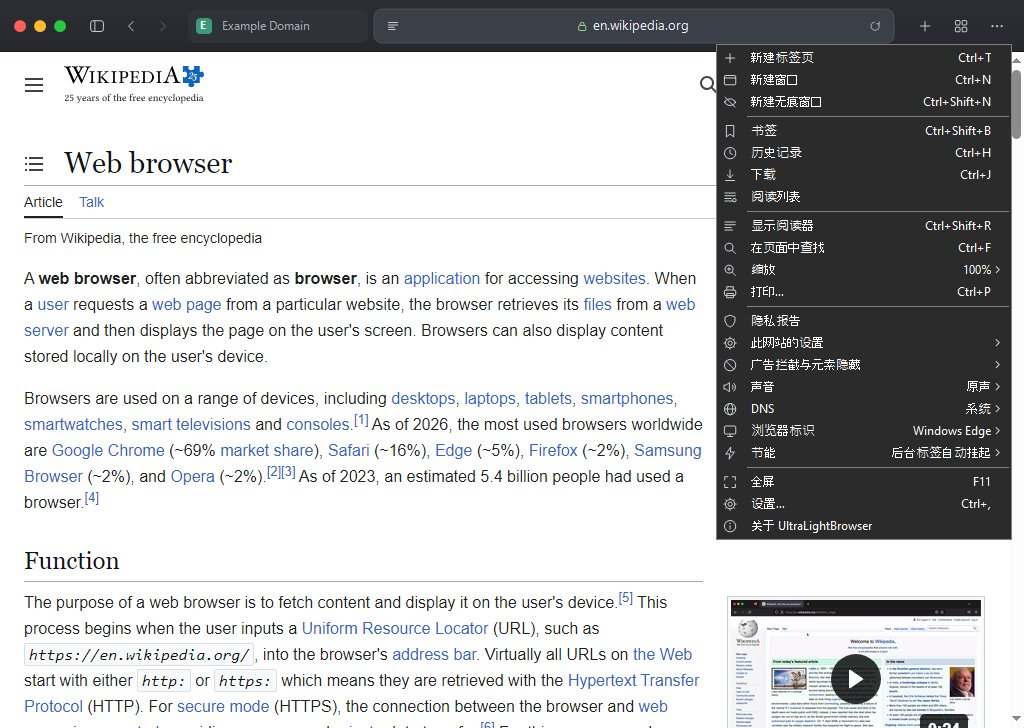
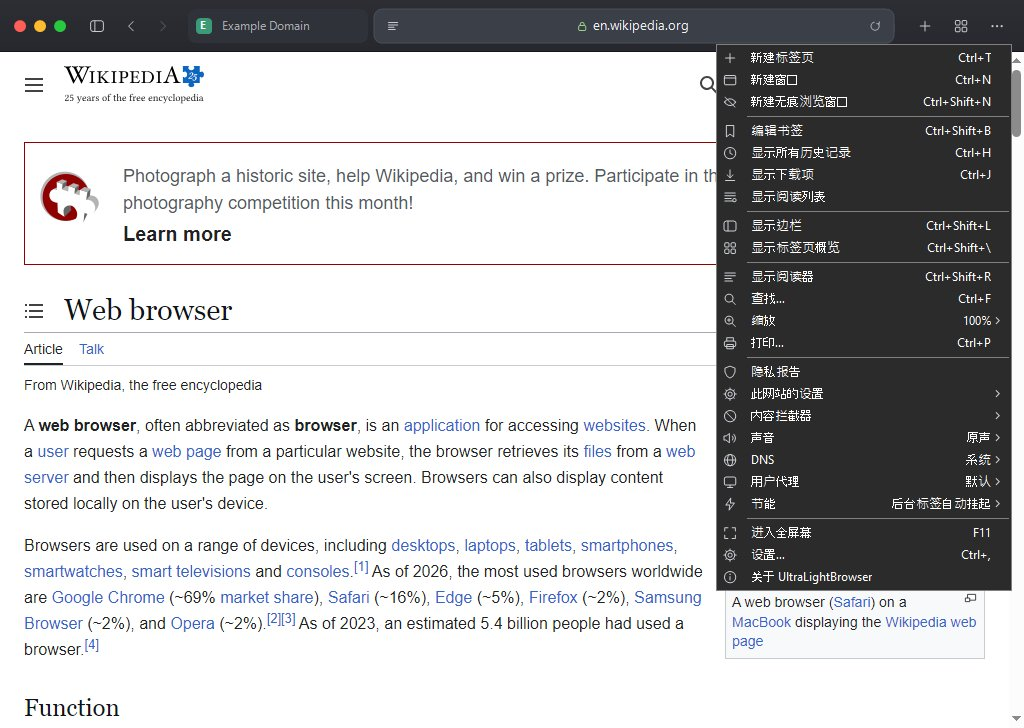
ui: Safari wording for menus, settings and built-in pages (v2.0.2)
Menus, toasts, settings and built-in pages now use the terms of macOS
Safari (Simplified Chinese): 边栏, 标签页组, 标签页概览, 显示所有历史记录,
显示下载项, 查找…, 进入全屏幕, 内容拦截器, 隐藏干扰项目, 用户代理,
可用时使用阅读器, 拦截并通知, 常用网站, 自定起始页, 将链接添加到阅读列表 …
Zoom and permission submenus follow Safari's order; the find banner shows
"N 个匹配项".

diff --git a/ui/settings.js b/ui/settings.js
@@ -32,41 +32,42 @@ async function load() {
   s = await call("getSettings");
   document.getElementById("main").replaceChildren(
     section("general", "通用",
-      row("启动时打开", select("startupPage", [["start", "起始页"], ["home", "主页"], ["restore", "上次打开的标签页"]])),
-      row("新标签页打开", select("newTabPage", [["start", "起始页"], ["blank", "空白页"], ["home", "主页"]])),
-      row("主页", text("homeUrl", "https://")),
-      row("搜索引擎", select("searchEngine", [["google", "Google"], ["bing", "Bing"], ["duckduckgo", "DuckDuckGo"], ["startpage", "Startpage"], ["baidu", "百度"]]))),
+      row("UltraLightBrowser 打开时：", select("startupPage", [["start", "一个新窗口"], ["home", "主页"], ["restore", "上次会话的所有窗口"]])),
+      row("新标签页打开方式：", select("newTabPage", [["start", "起始页"], ["home", "主页"], ["blank", "空白页"]])),
+      row("主页：", text("homeUrl", "https://"))),
     section("tabs", "标签页",
-      row("后台标签页自动挂起", select("tabSuspendMinutes", [[0, "从不"], [5, "5 分钟后"], [10, "10 分钟后"], [30, "30 分钟后"], [60, "1 小时后"]]),
+      row("后台标签页自动挂起：", select("tabSuspendMinutes", [[0, "永不"], [5, "5 分钟后"], [10, "10 分钟后"], [30, "30 分钟后"], [60, "1 小时后"]]),
         "未播放声音的后台标签页会暂停运行以节省内存和电量，切换回来时自动恢复。")),
+    section("search", "搜索",
+      row("搜索引擎：", select("searchEngine", [["google", "Google"], ["bing", "Bing"], ["duckduckgo", "DuckDuckGo"], ["startpage", "Startpage"], ["baidu", "百度"]]))),
     section("start", "起始页",
       row("个人收藏", sw("startShowFavorites")),
-      row("常去网站", sw("startShowFrequent")),
+      row("常用网站", sw("startShowFrequent")),
       row("隐私报告", sw("startShowPrivacy")),
       row("阅读列表", sw("startShowReading")),
-      row("背景", select("startBackground", [["aurora", "极光"], ["ocean", "海洋"], ["sunset", "日落"], ["plain", "纯色"]]))),
+      row("背景图像：", select("startBackground", [["aurora", "极光"], ["ocean", "海洋"], ["sunset", "日落"], ["plain", "无"]]))),
     section("privacy", "隐私",
-      row("记录浏览历史", sw("saveHistory"), "无痕窗口从不记录历史。"),
-      row("退出时清除历史记录", sw("clearHistoryOnExit")),
-      row("广告与跟踪拦截", sw("enableAdBlock"), "可在“此网站的设置”中对单个网站关闭。"),
-      action("历史记录", "清除所有历史记录…", async () => {
-        if (confirm("清除所有历史记录？")) { await call("clearHistory", { range: "all" }); toast("已清除历史记录"); }
+      row("保存浏览历史", sw("saveHistory"), "无痕浏览窗口从不保存历史记录。"),
+      row("退出时移除历史记录项目", sw("clearHistoryOnExit")),
+      row("启用内容拦截器", sw("enableAdBlock"), "阻止广告和跨网站跟踪器。可在“此网站的设置”中对单个网站停用。"),
+      action("历史记录：", "清除历史记录…", async () => {
+        if (confirm("清除所有历史记录？此操作无法撤销。")) { await call("clearHistory", { range: "all" }); toast("已清除历史记录"); }
       }, true),
-      action("网站设置", `清除 ${s.siteCount} 个网站的设置…`, async () => {
-        if (confirm("清除所有网站的单独设置（缩放、权限、阅读器等）？")) { await call("clearSiteSettings"); toast("已清除网站设置"); load(); }
+      action("网站设置：", `移除 ${s.siteCount} 个网站的设置…`, async () => {
+        if (confirm("移除所有网站的设置（页面缩放、摄像头、麦克风、位置、弹出式窗口、阅读器）？")) { await call("clearSiteSettings"); toast("已移除网站设置"); load(); }
       }, true),
-      action("隐私报告", "清除统计数据…", async () => {
-        if (confirm("清除隐私报告统计数据？")) { await call("clearPrivacy"); toast("已清除"); }
+      action("隐私报告：", "清除隐私报告…", async () => {
+        if (confirm("清除隐私报告中的数据？")) { await call("clearPrivacy"); toast("已清除隐私报告"); }
       }, true),
-      row("Cookie 与网站数据", el("span", { class: "muted", text: "每次退出时自动清除" }))),
+      row("Cookie 和网站数据：", el("span", { class: "muted", text: "每次退出时自动移除" }))),
     section("reader", "阅读器",
-      row("主题", select("readerTheme", [["sepia", "米黄"], ["light", "白色"], ["gray", "灰色"], ["dark", "深色"]])),
-      row("字体", select("readerFont", [["serif", "衬线（宋体）"], ["sans", "无衬线（黑体）"]])),
-      row("字号", select("readerFontSize", [15, 17, 19, 21, 24, 28].map((n) => [n, n + " px"])))),
+      row("主题：", select("readerTheme", [["light", "白色"], ["sepia", "米色"], ["gray", "灰色"], ["dark", "夜间"]])),
+      row("字体：", select("readerFont", [["serif", "宋体（衬线）"], ["sans", "黑体（无衬线）"]])),
+      row("文本大小：", select("readerFontSize", [15, 17, 19, 21, 24, 28].map((n) => [n, n + " 像素"])))),
     section("advanced", "高级",
-      row("硬件加速", sw("hardwareAcceleration"), "更改后重新启动浏览器生效。"),
-      row("版本", el("span", { class: "muted", text: "UltraLightBrowser " + s.version })),
-      row("项目主页", el("a", { href: "https://github.com/Freecode100Year/UltraLightBrowser", style: { color: "var(--accent)" }, text: "github.com/Freecode100Year/UltraLightBrowser" }))));
+      row("使用硬件加速", sw("hardwareAcceleration"), "更改后需重新启动 UltraLightBrowser。"),
+      row("版本：", el("span", { class: "muted", text: "UltraLightBrowser " + s.version })),
+      row("项目主页：", el("a", { href: "https://github.com/Freecode100Year/UltraLightBrowser", style: { color: "var(--accent)" }, text: "github.com/Freecode100Year/UltraLightBrowser" }))));
   if (location.hash) document.querySelector(location.hash)?.scrollIntoView();
 }
 load();

diff --git a/ui/sidebar.js b/ui/sidebar.js
@@ -15,21 +15,21 @@ function item(glyph, label, opts = {}) {
 }
 
 function renderTabs() {
-  const out = [el("div", { class: "sh", text: "标签组" }),
-    item("▭", "当前窗口", { cls: "act", extra: el("span", { class: "n", text: String(state.tabs.length) }) })];
+  const out = [el("div", { class: "sh", text: "标签页组" }),
+    item("▭", `${state.tabs.length} 个标签页`, { cls: "act" })];
   for (const g of state.groups) {
     out.push(item("▭", g.name, {
-      title: `打开标签组“${g.name}”（${g.count} 个标签页）`,
+      title: `打开标签页组“${g.name}”（${g.count} 个标签页）`,
       extra: el("span", { class: "n", text: String(g.count) }),
       onclick: () => call("openGroup", { id: g.id }),
-      onclose: () => { if (confirm(`删除标签组“${g.name}”？`)) call("deleteGroup", { id: g.id }); },
-      closeTitle: "删除标签组" }));
+      onclose: () => { if (confirm(`删除标签页组“${g.name}”？`)) call("deleteGroup", { id: g.id }); },
+      closeTitle: "删除标签页组" }));
   }
-  out.push(item("＋", "将当前标签页存为标签组", { cls: "link", onclick: async () => {
-    const r = await modal("新建标签组", [{ name: "name", label: "名称", required: true, placeholder: "例如：工作" }], "存储");
+  out.push(item("＋", `以 ${state.tabs.length} 个标签页新建标签页组`, { cls: "link", onclick: async () => {
+    const r = await modal("新建标签页组", [{ name: "name", label: "名称", required: true, placeholder: "例如：工作" }], "存储");
     if (r && r.name) call("saveGroup", { name: r.name });
   } }));
-  out.push(el("div", { class: "sh", text: "当前窗口的标签页" }));
+  out.push(el("div", { class: "sh", text: "标签页" }));
   for (const t of state.tabs) {
     out.push(item(icon(t.url || "about:blank", 16, t.favicon), t.title || host(t.url) || "新标签页", {
       cls: t.active ? "act" : "",
@@ -39,14 +39,14 @@ function renderTabs() {
       onclose: () => call("closeTab", { id: t.id }), closeTitle: "关闭标签页" }));
   }
   if (!state.private) {
-    out.push(el("div", { class: "sh", text: "无痕" }));
-    out.push(item("◌", "新建无痕窗口", { onclick: () => call("newPrivateWindow") }));
+    out.push(el("div", { class: "sh", text: "无痕浏览" }));
+    out.push(item("◌", "新建无痕浏览窗口", { onclick: () => call("newPrivateWindow") }));
   }
   return out;
 }
 
 function renderBookmarks() {
-  const out = [el("div", { class: "sh" }, "书签", el("button", { onclick: () => call("open", { url: "https://ulb.internal/bookmarks.html" }) }, "编辑"))];
+  const out = [el("div", { class: "sh" }, "书签", el("button", { onclick: () => call("open", { url: "https://ulb.internal/bookmarks.html" }) }, "编辑书签"))];
   for (const f of state.folders) {
     const items = state.bookmarks.filter((b) => b.folder === f);
     const open = openFolders.has(f);
@@ -64,8 +64,8 @@ function renderBookmarks() {
 function renderReading() {
   const items = state.reading.filter((r) => !unreadOnly || !r.read);
   const out = [el("div", { class: "sh" }, "阅读列表",
-    el("button", { onclick: () => { unreadOnly = !unreadOnly; render(); } }, unreadOnly ? "显示全部" : "仅未读"))];
-  if (!items.length) out.push(el("div", { class: "empty", text: "阅读列表为空。在分享菜单中选择“添加到阅读列表”。" }));
+    el("button", { onclick: () => { unreadOnly = !unreadOnly; render(); } }, unreadOnly ? "显示全部" : "显示未读"))];
+  if (!items.length) out.push(el("div", { class: "empty", text: "阅读列表中没有项目。要添加页面，请点按分享按钮并选取“添加到阅读列表”。" }));
   for (const r of items) {
     out.push(item(icon(r.url, 16), r.title, {
       cls: r.read ? "read" : "", title: r.title + "\n" + host(r.url),

diff --git a/ui/bookmarks.js b/ui/bookmarks.js
@@ -13,9 +13,9 @@ function renderFolders() {
       el("span", { text: f === "个人收藏" ? "★" : "▸", class: "faint" }), el("span", { text: f }),
       el("span", { class: "n", text: String(count) }));
     if (!fixed.has(f)) {
-      row.append(el("button", { class: "icon fx", title: "重命名", onclick: async (e) => {
+      row.append(el("button", { class: "icon fx", title: "重新命名", onclick: async (e) => {
         e.stopPropagation();
-        const r = await modal("重命名文件夹", [{ name: "name", label: "名称", value: f, required: true }]);
+        const r = await modal("重新命名文件夹", [{ name: "name", label: "名称", value: f, required: true }]);
         if (r && r.name) { await call("renameFolder", { from: f, to: r.name }); if (current === f) current = r.name; load(); }
       } }, "✎"), el("button", { class: "icon fx", title: "删除文件夹（书签移到“书签”）", onclick: async (e) => {
         e.stopPropagation();
@@ -39,7 +39,7 @@ function renderList() {
     ? data.bookmarks.filter((b) => (b.title + " " + b.url).toLowerCase().includes(term))
     : data.bookmarks.filter((b) => b.folder === current);
   const list = document.getElementById("list");
-  if (!items.length) { list.replaceChildren(el("div", { class: "empty", text: term ? "没有匹配的书签" : "此文件夹为空" })); return; }
+  if (!items.length) { list.replaceChildren(el("div", { class: "empty", text: term ? "没有匹配的书签" : "此文件夹中没有书签" })); return; }
   list.replaceChildren(...items.map((b) => {
     const row = el("a", { class: "item", href: b.url, draggable: "true" },
       icon(b.url, 16),

diff --git a/ui/history.js b/ui/history.js
@@ -8,7 +8,7 @@ async function load() {
   const r = await call("getHistory", { q: q.value, limit: 1000 });
   document.getElementById("off").style.display = r.enabled ? "none" : "block";
   if (!r.items.length) {
-    list.replaceChildren(el("div", { class: "empty", text: q.value ? "没有找到匹配的记录" : "历史记录为空" }));
+    list.replaceChildren(el("div", { class: "empty", text: q.value ? "没有找到匹配的记录" : "没有历史记录" }));
     return;
   }
   const out = [];
@@ -20,7 +20,7 @@ async function load() {
       el("span", { class: "time", text: fmtTime(h.last) }),
       icon(h.url, 16),
       el("div", { class: "t" }, el("div", { text: h.title || h.url }), el("div", { class: "url", text: host(h.url) })),
-      el("button", { class: "icon x", title: "从历史记录中删除", onclick: async (e) => {
+      el("button", { class: "icon x", title: "删除", onclick: async (e) => {
         e.preventDefault(); e.stopPropagation();
         await call("deleteHistory", { url: h.url });
         load();
@@ -35,7 +35,7 @@ document.getElementById("range").addEventListener("change", async (e) => {
   e.target.value = "";
   if (!range) return;
   const label = e.target.querySelector(`option[value="${range}"]`).textContent;
-  if (!confirm(`确定要清除“${label}”的历史记录吗？此操作无法撤销。`)) return;
+  if (!confirm(`清除“${label}”的历史记录？\n这会移除相关的历史记录项目。此操作无法撤销。`)) return;
   await call("clearHistory", { range });
   load();
 });

diff --git a/ui/start.js b/ui/start.js
@@ -6,7 +6,7 @@ function siteTile(item, removable) {
     icon(item.url, 62),
     el("span", { class: "name", text: item.title || host(item.url) }));
   if (removable) {
-    a.append(el("button", { class: "rm", title: "移除", onclick: async (e) => {
+    a.append(el("button", { class: "rm", title: "从个人收藏中移除", onclick: async (e) => {
       e.preventDefault(); e.stopPropagation();
       await call("removeBookmark", { id: item.id });
       load();
@@ -46,11 +46,11 @@ async function load() {
       el("div", { class: "shield" }, shieldSvg()),
       el("div", {}, el("div", { class: "big", text: p.total.toLocaleString("zh-CN") }),
         el("div", { class: "muted", style: { fontSize: "12px" }, text: p.adblock
-          ? `过去 7 天拦截的跟踪器 · 涉及 ${p.siteCount} 个网站`
-          : "广告与跟踪拦截已关闭" }))),
+          ? `在过去七天中，已阻止 ${p.total} 个跟踪器为你建立档案`
+          : "内容拦截器已停用" }))),
     el("div", { class: "card rl" }, p.top.length
       ? p.top.slice(0, 3).map((t) => el("div", {}, el("span", { text: t.name }), el("span", { class: "muted", text: t.count + " 次" })))
-      : el("div", { class: "muted" }, "暂无拦截记录")));
+      : el("div", { class: "muted" }, "尚未阻止任何跟踪器")));
   document.getElementById("privacy").classList.toggle("hidden", show.privacy === false);
 
   const rr = document.getElementById("reading-row");

diff --git a/ui/privacy.js b/ui/privacy.js
@@ -5,8 +5,8 @@ const { el, call, icon } = ULB;
   document.getElementById("hero").replaceChildren(
     el("div", { class: "shield" }, "🛡"),
     el("div", {}, el("div", { class: "big", text: r.total.toLocaleString("zh-CN") }),
-      el("div", { class: "muted", text: `过去 7 天拦截的跟踪器请求 · 涉及 ${r.siteCount} 个网站` }),
-      r.adblock ? null : el("div", { class: "off", text: "广告与跟踪拦截当前已关闭" })));
+      el("div", { class: "muted", text: `在过去七天中，UltraLightBrowser 已阻止 ${r.total} 个跟踪器为你建立档案 · ${r.siteCount} 个网站曾联系跟踪器` }),
+      r.adblock ? null : el("div", { class: "off", text: "内容拦截器当前已停用" })));
   const max = Math.max(1, ...r.perDay.map((d) => d[1]));
   document.getElementById("chart").replaceChildren(...r.perDay.map(([day, n]) => {
     const d = new Date(day + "T00:00:00");
@@ -21,7 +21,7 @@ const { el, call, icon } = ULB;
     box.replaceChildren(...items.map((t) => el("div", { class: "item" },
       icon("https://" + t.name + "/", 16),
       el("div", { class: "t" }, el("div", { text: t.name })),
-      el("span", { class: "cnt", text: isSite ? `${t.count} 次拦截` : `${t.count} 次` }))));
+      el("span", { class: "cnt", text: isSite ? `${t.count} 个跟踪器` : `${t.count} 次` }))));
   };
   fill("trackers", r.trackers, false);
   fill("sites", r.sites, true);

diff --git a/ui/reader.html b/ui/reader.html
@@ -5,15 +5,15 @@
 <title>阅读器</title><link rel="stylesheet" href="reader.css">
 </head><body class="sepia serif">
 <div class="bar" id="bar">
-  <button id="smaller" title="缩小字号">A−</button><button id="bigger" title="放大字号">A+</button>
+  <button id="smaller" title="缩小文本">A−</button><button id="bigger" title="放大文本">A+</button>
   <span class="sep"></span>
   <button class="theme" data-theme="light" title="白色"><i></i></button>
-  <button class="theme" data-theme="sepia" title="米黄"><i></i></button>
+  <button class="theme" data-theme="sepia" title="米色"><i></i></button>
   <button class="theme" data-theme="gray" title="灰色"><i></i></button>
-  <button class="theme" data-theme="dark" title="深色"><i></i></button>
+  <button class="theme" data-theme="dark" title="夜间"><i></i></button>
   <span class="sep"></span>
-  <button id="font" title="切换字体">字体</button>
-  <button id="exit" title="退出阅读器（Ctrl+Shift+R）">退出</button>
+  <button id="font" title="字体">Aa</button>
+  <button id="exit" title="隐藏阅读器（Ctrl+Shift+R）">完成</button>
 </div>
 <article id="article"><p class="loading">正在载入…</p></article>
 <script src="ui.js"></script><script src="reader.js"></script>

diff --git a/ui/privacy.html b/ui/privacy.html
@@ -17,13 +17,13 @@
 <div class="page">
   <h1>隐私报告</h1>
   <div class="card hero" id="hero"></div>
-  <h2>过去 7 天</h2>
+  <h2>过去七天</h2>
   <div class="card"><div class="chart" id="chart"></div></div>
   <div class="cols" style="margin-top:16px">
-    <div class="card"><h2 style="margin-top:4px">拦截最多的跟踪器</h2><div class="list" id="trackers"></div></div>
-    <div class="card"><h2 style="margin-top:4px">跟踪器最多的网站</h2><div class="list" id="sites"></div></div>
+    <div class="card"><h2 style="margin-top:4px">跟踪器</h2><div class="list" id="trackers"></div></div>
+    <div class="card"><h2 style="margin-top:4px">已联系跟踪器的网站</h2><div class="list" id="sites"></div></div>
   </div>
-  <p class="faint" style="font-size:12px;margin-top:18px">统计只保存在本机。拦截基于内置的广告与跟踪域名列表，同时启用了 WebView2 严格防跟踪。</p>
+  <p class="faint" style="font-size:12px;margin-top:18px">隐私报告只保存在本机。跟踪器由内置的内容拦截器和“阻止跨网站跟踪”阻止。</p>
 </div>
 <script src="ui.js"></script><script src="privacy.js"></script>
 </body></html>

diff --git a/ui/history.html b/ui/history.html
@@ -12,16 +12,16 @@
 <div class="page">
   <h1>历史记录</h1>
   <div class="top">
-    <input type="search" id="q" placeholder="搜索历史记录" autofocus>
+    <input type="search" id="q" placeholder="搜索" autofocus>
     <select id="range">
       <option value="">清除历史记录…</option>
-      <option value="hour">最近一小时</option>
+      <option value="hour">上一小时</option>
       <option value="today">今天</option>
       <option value="twodays">今天和昨天</option>
       <option value="all">所有历史记录</option>
     </select>
   </div>
-  <div id="off" class="card muted" style="display:none;margin-bottom:10px">已在设置中关闭“记录浏览历史”，不会再记录新的访问。</div>
+  <div id="off" class="card muted" style="display:none;margin-bottom:10px">已在设置中关闭“保存浏览历史”，新的访问不会被记录。</div>
   <div class="list" id="list"></div>
 </div>
 <script src="ui.js"></script><script src="history.js"></script>

diff --git a/ui/bookmarks.html b/ui/bookmarks.html
@@ -21,13 +21,13 @@
   <h1>书签</h1>
   <div class="layout">
     <div class="folders"><div id="folders"></div>
-      <button style="margin-top:10px;width:100%" id="new-folder">＋ 新建文件夹</button></div>
+      <button style="margin-top:10px;width:100%" id="new-folder">新建文件夹</button></div>
     <div class="main">
       <div class="tools">
-        <input type="search" id="q" placeholder="搜索书签">
+        <input type="search" id="q" placeholder="搜索">
         <button class="primary" id="add">添加书签</button>
-        <button id="import">导入…</button>
-        <button id="export">导出…</button>
+        <button id="import">导入书签 HTML 文件…</button>
+        <button id="export">导出书签…</button>
       </div>
       <div class="list" id="list"></div>
     </div>

diff --git a/ui/start.html b/ui/start.html
@@ -6,10 +6,10 @@
 </head><body>
 <main class="start">
   <section id="favorites"><h2>个人收藏</h2><div class="grid" id="fav-grid"></div></section>
-  <section id="frequent"><h2>常去网站</h2><div class="grid" id="freq-grid"></div></section>
+  <section id="frequent"><h2>常用网站</h2><div class="grid" id="freq-grid"></div></section>
   <section id="privacy"><h2>隐私报告</h2><div class="row stretch" id="privacy-row"></div></section>
   <section id="reading"><h2>阅读列表</h2><div class="row stretch" id="reading-row"></div></section>
-  <div class="foot"><a href="settings.html#start" class="muted">自定义起始页…</a></div>
+  <div class="foot"><a href="settings.html#start" class="muted">自定起始页…</a></div>
 </main>
 <script src="ui.js"></script><script src="start.js"></script>
 </body></html>

diff --git a/ui/overview.js b/ui/overview.js
@@ -16,7 +16,7 @@ function render() {
       el("div", { class: "tt" }, icon(t.url || "about:blank", 16, t.favicon), el("span", { class: "name", text: t.title || host(t.url) || "新标签页" }),
         t.audio ? el("span", { class: "badge audio", text: "播放中" }) : null,
         t.suspended ? el("span", { class: "badge sleep", text: "已挂起" }) : null),
-      el("button", { class: "close", title: "关闭标签页", onclick: (e) => { e.stopPropagation(); call("closeTab", { id: t.id }); } }, "✕"));
+      el("button", { class: "close", title: "关闭此标签页", onclick: (e) => { e.stopPropagation(); call("closeTab", { id: t.id }); } }, "✕"));
   }), el("div", { class: "th new", title: "新建标签页", onclick: () => call("newTab") }, "+"));
 }
 
